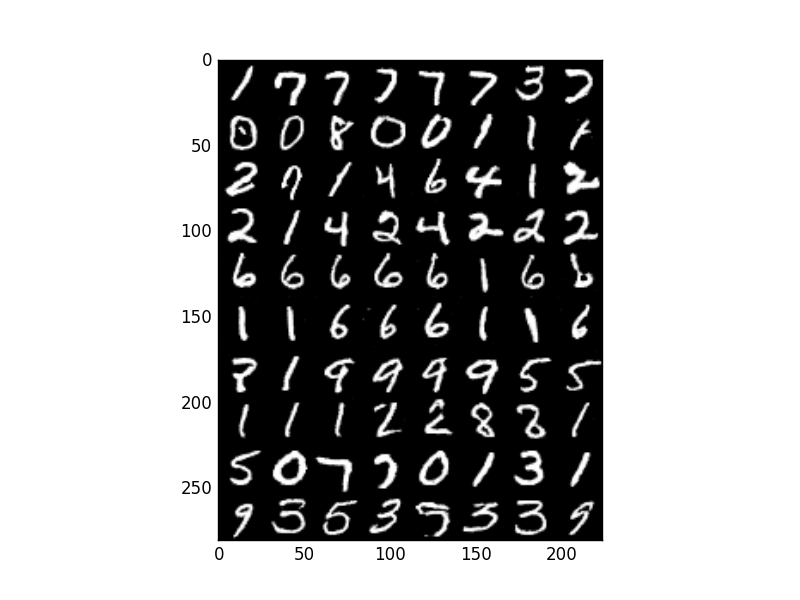
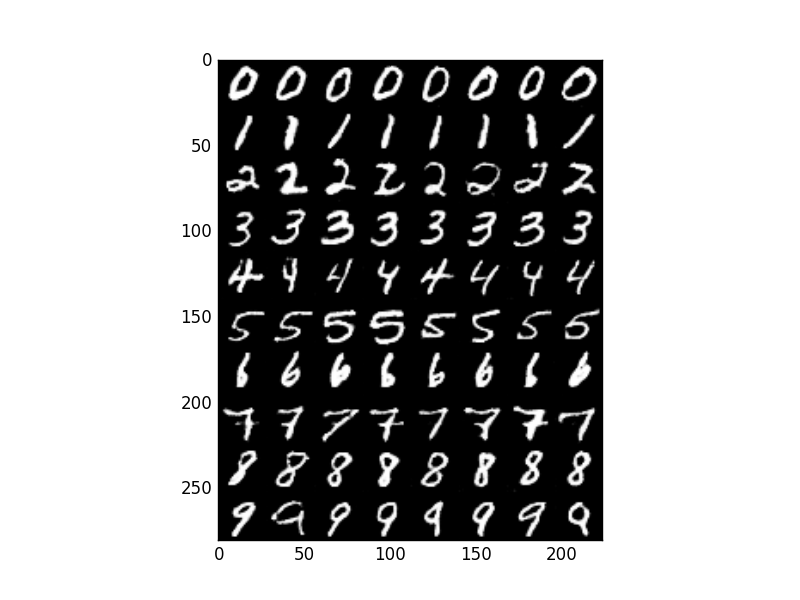
Update figures

Changed region(s): [[0.2812, 0.09, 0.75, 0.9]]

diff --git a/InfoGAN/README.md b/InfoGAN/README.md
@@ -27,12 +27,14 @@ Follow [these instructions](https://github.com/tdeboissiere/DeepLearningImplemen
 
 **MNIST example results**
 
-Varying the categorical code: getting there but not perfect
+**Note 1** The figures below were obtained with a slight modification of the original InfoGAN paper: supervised categorical cross entropy loss for the discriminator and simple MSE loss for the continuous variables. Credits to @burisuriburi for the original idea: https://github.com/buriburisuri/supervised_infogan.
+
+**Note 2** The code in this repository matches OpenAI's original implementation, without the trick of Note 1.
+
+Varying the categorical code:
 
 ![figure](./figures/varying_categorical.png)
 
 Varying the continuous code (the codes are samples from a grid column wise x row wise):
 
 ![figure](./figures/varying_continuous.png)
-
-It seems that a combination of the two codes rather than one in isolation leads to a change of thickness / orientation
